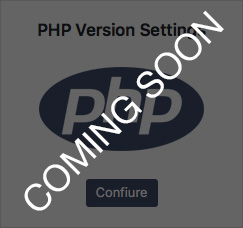
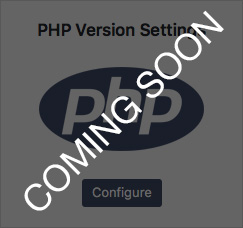
fixing typos and images

Changed region(s): [[0.3169, 0.7675, 0.6914, 0.9211]]

diff --git a/views/sg-cache.php b/views/sg-cache.php
@@ -6,21 +6,21 @@
  	
  		<div class="three sgclr">
  			<div class="greybox">
- 				<h3><?php _e( 'SuperCacher Config', 'sg-cachepress' ) ?></h3>
+ 				<h3><?php _e( 'SuperCacher', 'sg-cachepress' ) ?></h3>
  				<a href="./admin.php?page=caching"><img src="<?php echo plugin_dir_url( __FILE__ )?>../css/cache.png" alt="Caching Settings" title="Caching Settings" /></a>
- 				<a id="caching-link" class="button" href="./admin.php?page=caching">Confiure</a>
+ 				<a id="caching-link" class="button" href="./admin.php?page=caching">Configure</a>
  			</div>
  		
  			<div class="greybox">
  					<h3><?php _e( 'HTTPS Config', 'sg-cachepress' ) ?></h3>
  					<a href="./admin.php?page=ssl"><img src="<?php echo plugin_dir_url( __FILE__ )?>../css/ssl.png" alt="Force HTTPS" title="Force HTTPS" /></a>
- 					<a id="caching-link" class="button" href="./admin.php?page=ssl">Confiure</a>
+ 					<a id="caching-link" class="button" href="./admin.php?page=ssl">Configure</a>
  			</div>
  			
  			<div class="greybox" style="padding: 0; border: none;">
  					<!--<h3><?php _e( 'PHP Config', 'sg-cachepress' ) ?></h3>
  					<a href="./admin.php?page=php-check"><img src="<?php echo plugin_dir_url( __FILE__ )?>../css/php.png" alt="" /></a>
- 					<a id="caching-link" class="button" href="./admin.php?page=php-check">Confiure</a>-->
+ 					<a id="caching-link" class="button" href="./admin.php?page=php-check">Configure</a>-->
  					
  					<img style="margin: 0;" src="<?php echo plugin_dir_url( __FILE__ )?>../css/coming-soon.jpg" alt="Coming Soon" title="Coming Soon" />
  					
